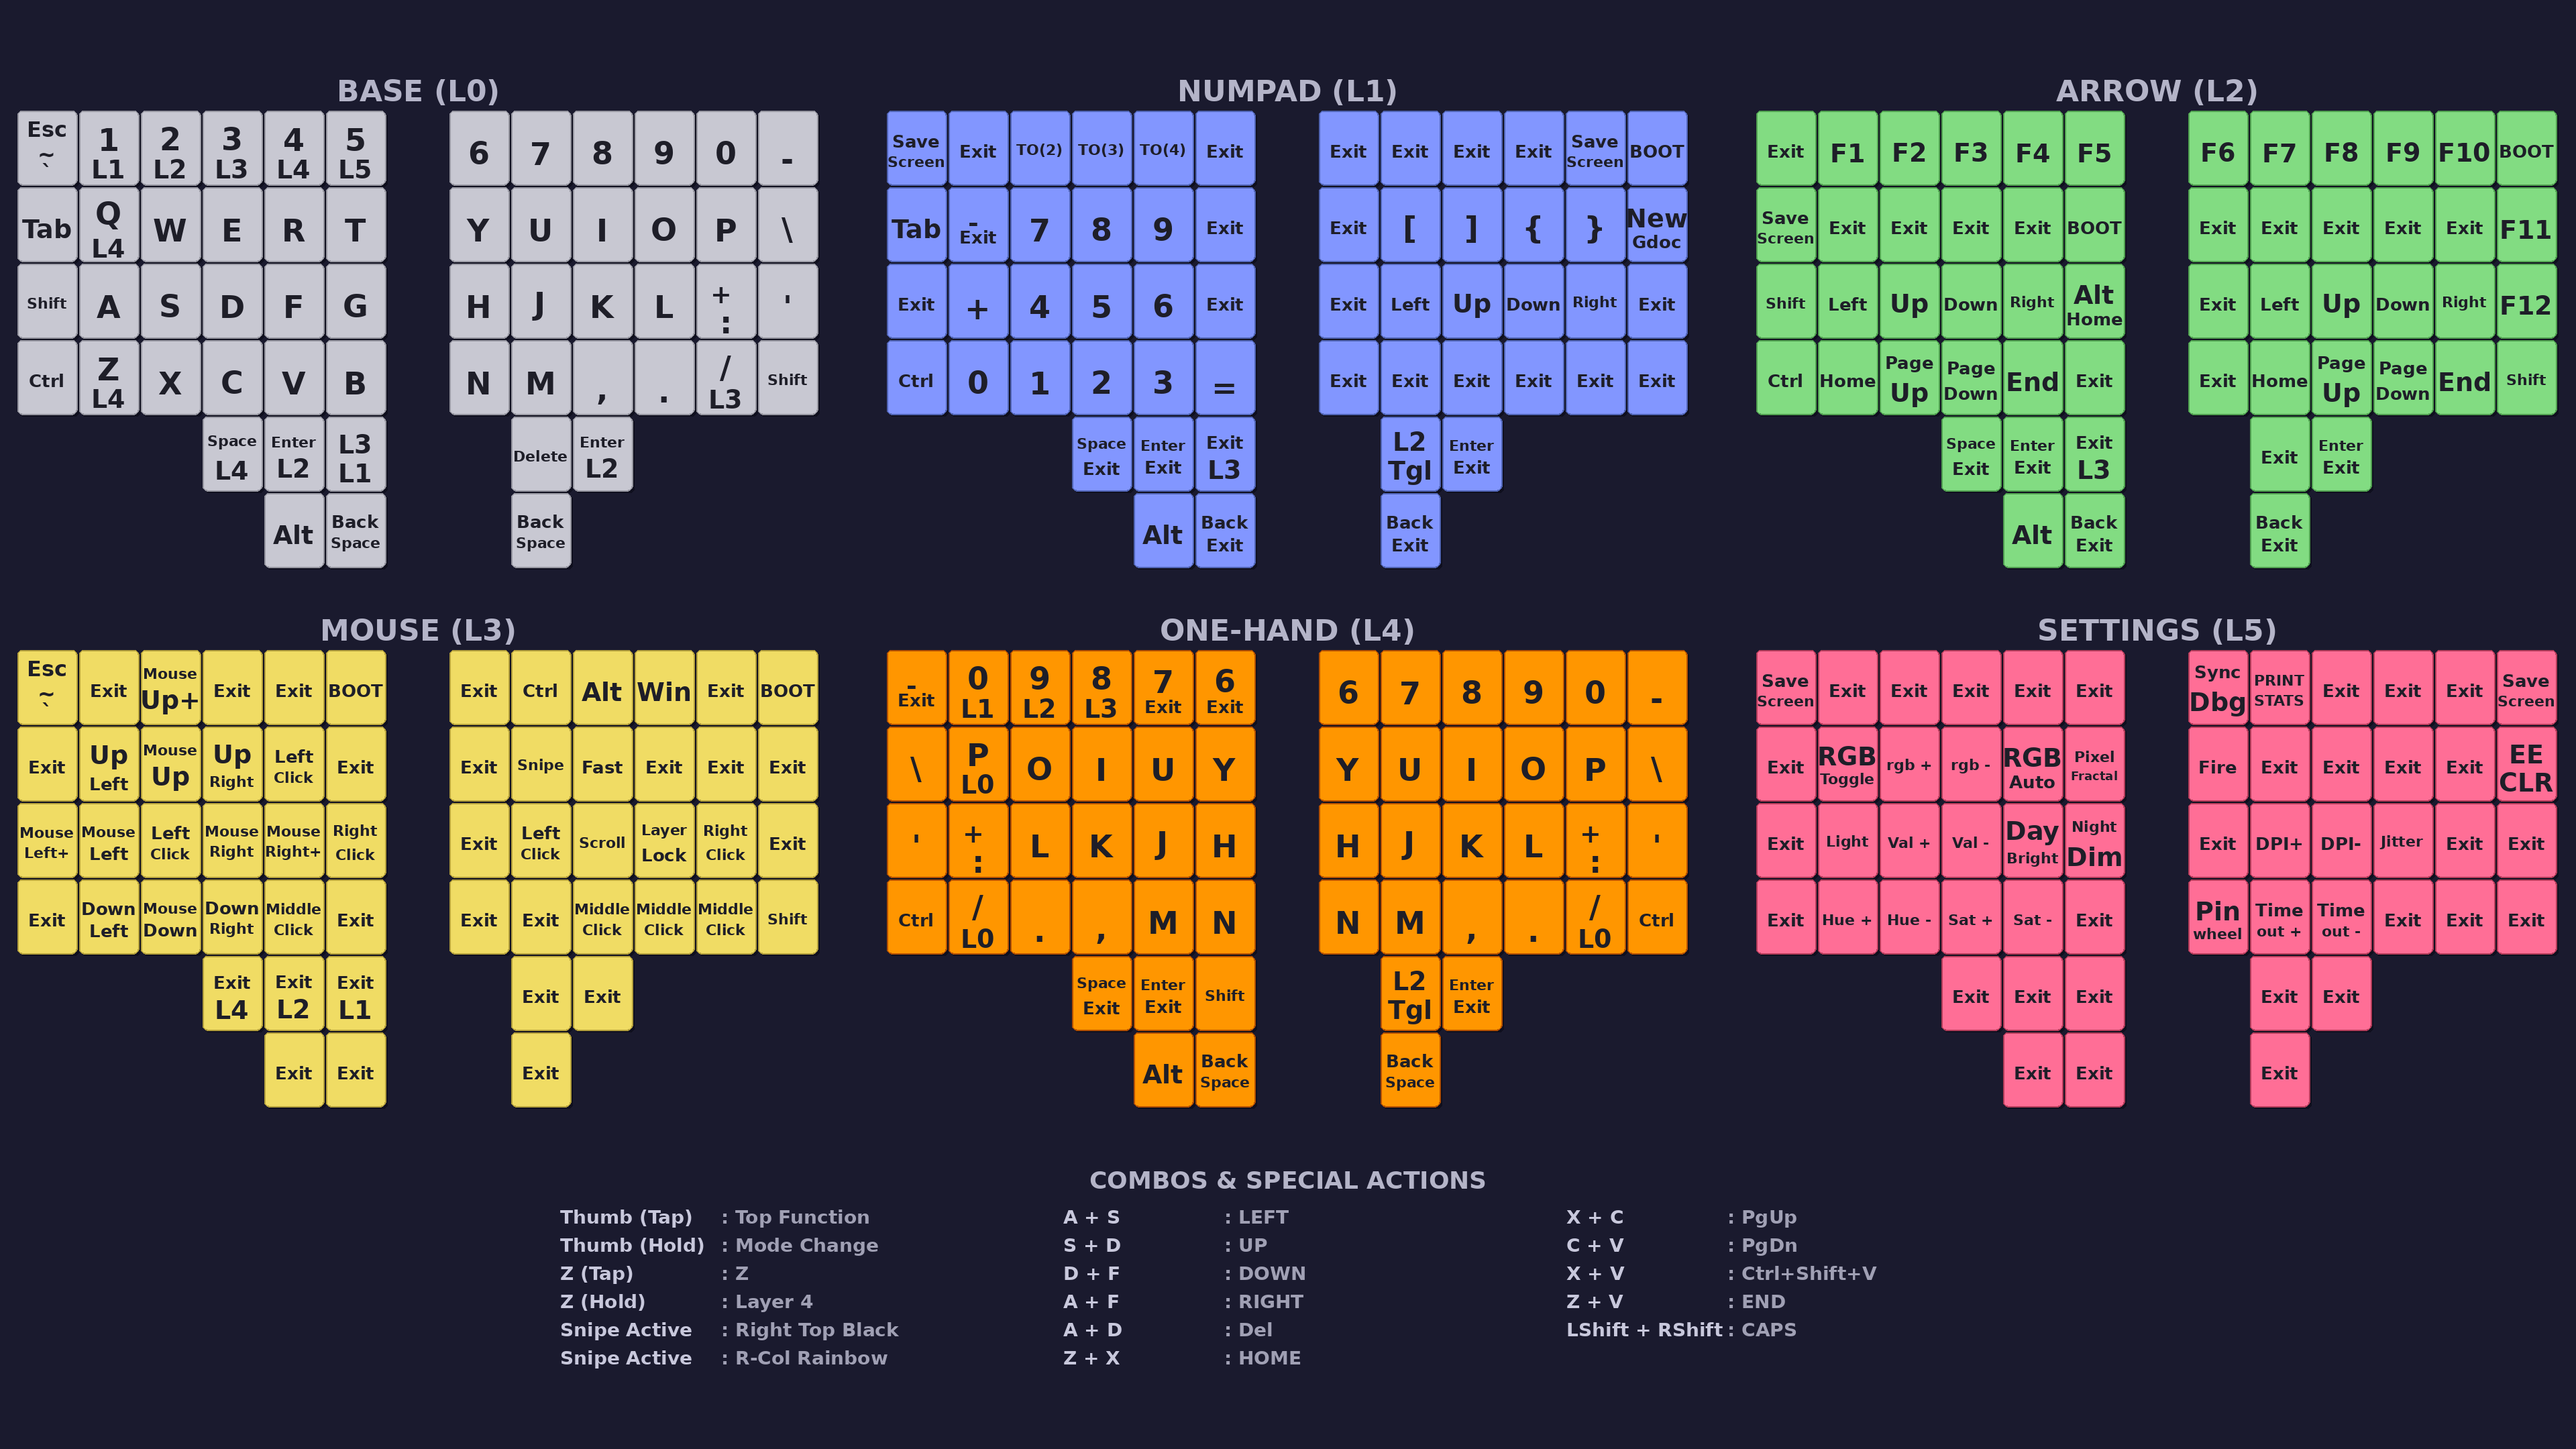
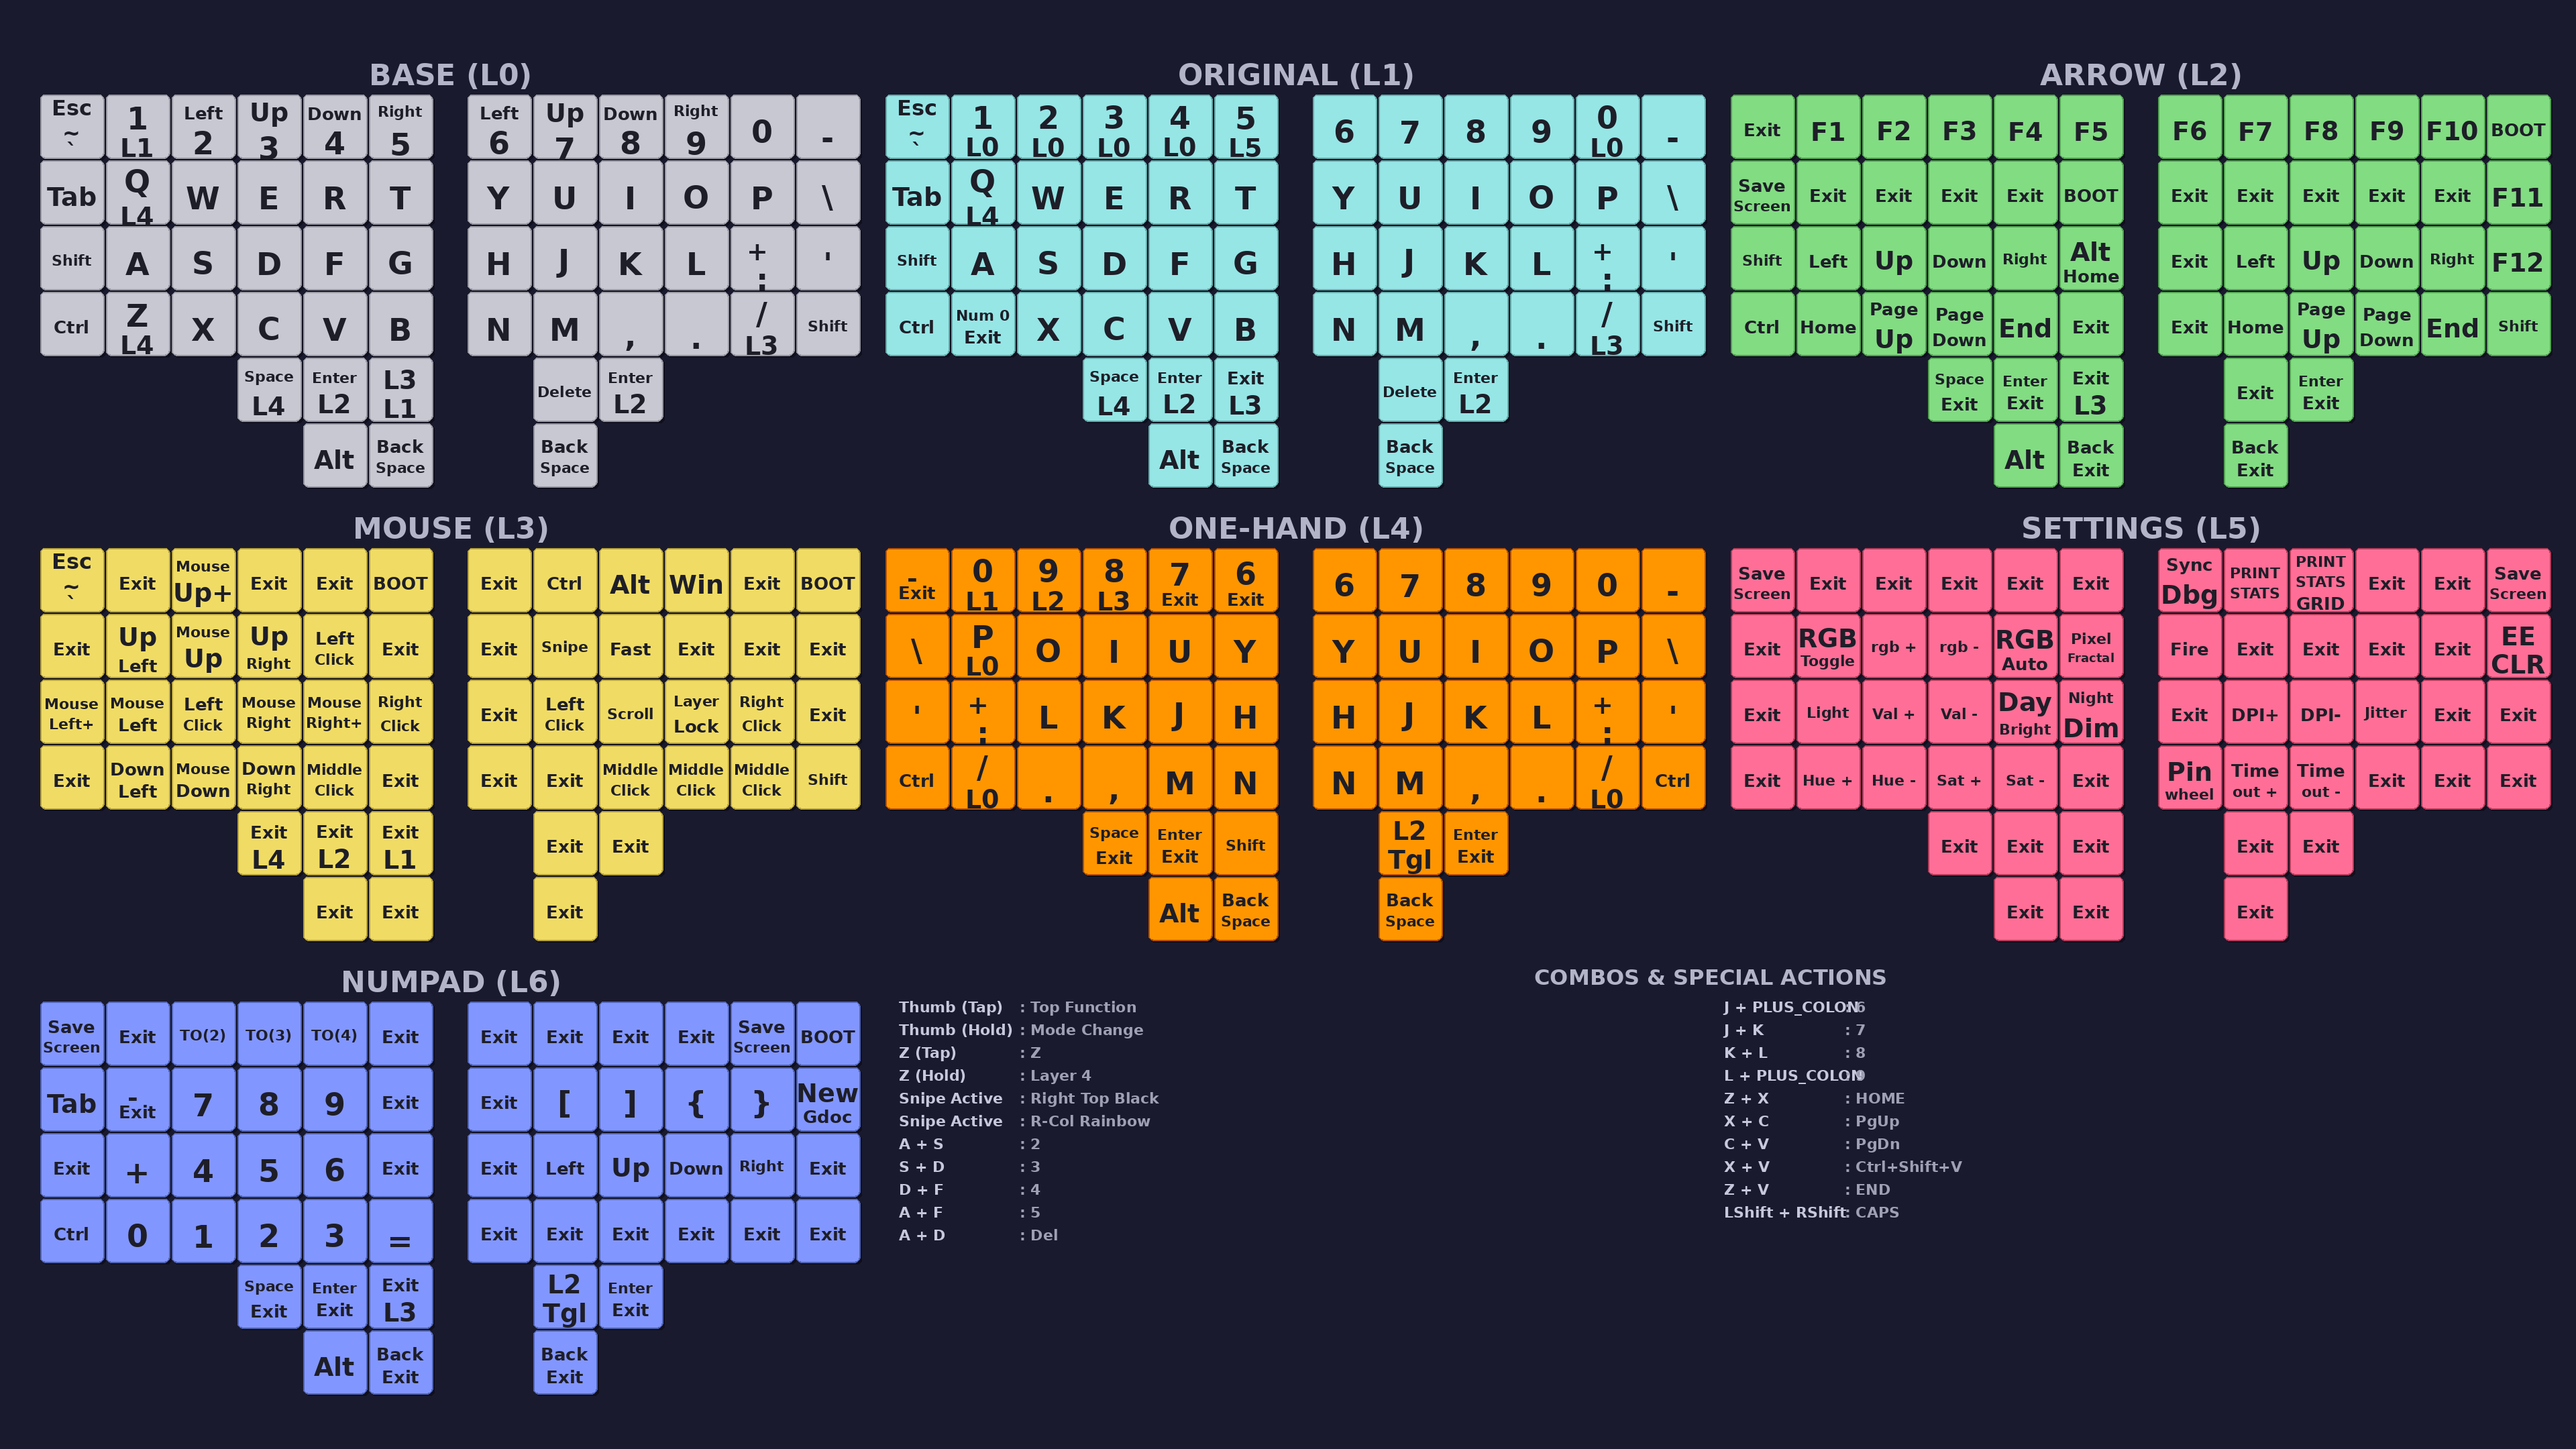
Visualize: Update PDF and wallpaper for Layer 1/6 swap and dual-function keys
- Updated generate_layout_pdf.py and wallpaper.py to include Layer 6 (Numpad) and rename Layer 1 (Original).
- Added labels for new dual-function arrow/number keys (KC_2_LEFT through KC_9_RIGHT).
- Adjusted wallpaper layout to a 3x3 grid to accommodate the additional layer and optimized combo display.
- Regenerated charybdis_layout.pdf and wallpaper.png.

diff --git a/wallpaper.py b/wallpaper.py
@@ -12,30 +12,33 @@ from PIL import Image, ImageDraw, ImageFont
 # Layer colors matching the RGB settings in keymap.c
 LAYER_COLORS = {
     0: (200, 200, 210),  # Light gray (Base)
-    1: (130, 150, 255),  # Blue (Numpad)
+    1: (150, 230, 230),  # Cyan (Original)
     2: (130, 220, 130),  # Green (Arrow)
     3: (240, 220, 100),  # Yellow (Mouse)
     4: (255, 150, 0),  # Orange (One-Hand)
     5: (255, 110, 150),  # Hot Pink (Settings)
+    6: (130, 150, 255),  # Blue (Numpad)
 }
 
 LAYER_NAMES = {
     0: "BASE",
-    1: "NUMPAD",
+    1: "ORIGINAL",
     2: "ARROW",
     3: "MOUSE",
     4: "ONE-HAND",
     5: "SETTINGS",
+    6: "NUMPAD",
 }
 
 # Key border colors (darker versions)
 KEY_BORDER_COLORS = {
     0: (150, 150, 160),
-    1: (80, 100, 180),
+    1: (100, 170, 170),  # Cyan (Original)
     2: (80, 160, 80),
     3: (180, 160, 60),
     4: (180, 80, 0),
     5: (180, 60, 90),
+    6: (80, 100, 180),  # Blue (Numpad)
 }
 
 # Key label simplifications
@@ -444,8 +447,8 @@ def simplify_key(key_code, layer_num=None):
             return "/\nExit"
         return "Z\nTD"
 
-    # Special handling for Layer 0 Long Press
-    if layer_num == 0:
+    # Special handling for Layer 0 and Layer 6 Long Press
+    if layer_num == 0 or layer_num == 6:
         if key_code == "KC_1_TG1":
             return "1\nL1"
         if key_code == "KC_2_TG2":
@@ -456,6 +459,8 @@ def simplify_key(key_code, layer_num=None):
             return "4\nL4"
         if key_code == "KC_5_TG5":
             return "5\nL5"
+        if key_code == "KC_0_TO0":
+            return "0\nL0"
 
     # Special handling for Layer 1
     if layer_num == 1:
@@ -602,6 +607,15 @@ def simplify_key(key_code, layer_num=None):
         "KC_PINWHEEL": "Pin\nwheel",
         "KC_7_TO0": "7\nExit",
         "KC_6_TO0": "6\nExit",
+        "KC_0_TO0": "0\nL0",
+        "KC_2_LEFT": "Left\n2",
+        "KC_3_UP": "Up\n3",
+        "KC_4_DOWN": "Down\n4",
+        "KC_5_RIGHT": "Right\n5",
+        "KC_6_TO6": "Left\n6",
+        "KC_7_UP": "Up\n7",
+        "KC_8_DOWN": "Down\n8",
+        "KC_9_RIGHT": "Right\n9",
         "KC_SPC_TG2": "Space\nL2",
         "KC_SPC_TG4": "Space\nL4",
         "KC_ENT_TG2": "Enter\nL2",
@@ -716,17 +730,17 @@ def parse_info_json(file_path):
 
     # Adjust layout to minimize whitespace and center thumbs
     for key in layout:
-        # Right Main (rows 0-3, x >= 11) -> Shift Left by 4
+        # Right Main (rows 0-3, x >= 11) -> Shift Left by 4.5
         if key["y"] < 4 and key["x"] >= 11:
-            key["x"] -= 4.0
+            key["x"] -= 4.5
 
         # Left Thumbs (y >= 4, x < 9) -> Shift Left by 2 (Center under Left Main)
         elif key["y"] >= 4 and key["x"] < 9:
             key["x"] -= 2.0
 
-        # Right Thumbs (y >= 4, x >= 9) -> Shift Left by 1 (Center under Right Main)
+        # Right Thumbs (y >= 4, x >= 9) -> Shift Left by 1.5 (Center under Right Main)
         elif key["y"] >= 4 and key["x"] >= 9:
-            key["x"] -= 1.0
+            key["x"] -= 1.5
 
     return layout
 
@@ -783,11 +797,11 @@ def draw_layer(
 
 
 def draw_combos(draw, start_x, start_y, width):
-    """Draw the combos section in 3 columns."""
+    """Draw the combos section in 2 columns."""
     current_y = start_y
 
-    title_font = get_font(36, bold=True)
-    text_font = get_font(28)
+    title_font = get_font(32, bold=True)
+    text_font = get_font(22)
 
     # Title
     title = "COMBOS & SPECIAL ACTIONS"
@@ -800,34 +814,32 @@ def draw_combos(draw, start_x, start_y, width):
         font=title_font,
     )
 
-    current_y += 60  # Spacing after title
+    current_y += 50  # Spacing after title
 
-    # Split combos into three columns
+    # Split combos into two columns
     n = len(COMBOS)
-    third = (n + 2) // 3
-    col1_combos = COMBOS[:third]
-    col2_combos = COMBOS[third : 2 * third]
-    col3_combos = COMBOS[2 * third :]
+    half = (n + 1) // 2
+    col1_combos = COMBOS[:half]
+    col2_combos = COMBOS[half:]
 
-    # Center the columns more tightly
-    col_content_width = 750  # Fixed width per column
-    total_combos_width = col_content_width * 3
-    combo_start_x = start_x + (width - total_combos_width) // 2
+    # Calculate column positions
+    col_content_width = width // 2
+    combo_start_x = start_x
 
-    line_height = 42
+    line_height = 34
 
-    max_rows = max(len(col1_combos), len(col2_combos), len(col3_combos))
+    max_rows = max(len(col1_combos), len(col2_combos))
     for i in range(max_rows):
         if i < len(col1_combos):
             keys, action = col1_combos[i]
             draw.text(
-                (combo_start_x + 40, current_y),
+                (combo_start_x + 20, current_y),
                 f"{keys}",
                 fill=(200, 200, 220),
                 font=text_font,
             )
             draw.text(
-                (combo_start_x + 280, current_y),
+                (combo_start_x + 200, current_y),
                 f": {action}",
                 fill=(160, 160, 180),
                 font=text_font,
@@ -836,28 +848,13 @@ def draw_combos(draw, start_x, start_y, width):
         if i < len(col2_combos):
             keys, action = col2_combos[i]
             draw.text(
-                (combo_start_x + col_content_width + 40, current_y),
+                (combo_start_x + col_content_width + 20, current_y),
                 f"{keys}",
                 fill=(200, 200, 220),
                 font=text_font,
             )
             draw.text(
-                (combo_start_x + col_content_width + 280, current_y),
-                f": {action}",
-                fill=(160, 160, 180),
-                font=text_font,
-            )
-
-        if i < len(col3_combos):
-            keys, action = col3_combos[i]
-            draw.text(
-                (combo_start_x + 2 * col_content_width + 40, current_y),
-                f"{keys}",
-                fill=(200, 200, 220),
-                font=text_font,
-            )
-            draw.text(
-                (combo_start_x + 2 * col_content_width + 280, current_y),
+                (combo_start_x + col_content_width + 200, current_y),
                 f": {action}",
                 fill=(160, 160, 180),
                 font=text_font,
@@ -885,16 +882,16 @@ def generate_wallpaper(output_path, keymap_path, info_path):
     img = Image.new("RGB", (WALLPAPER_WIDTH, WALLPAPER_HEIGHT), BACKGROUND_COLOR)
     draw = ImageDraw.Draw(img)
 
-    # Calculate grid layout (2 rows x 3 columns)
+    # Calculate grid layout (3 rows x 3 columns for 7 layers)
     grid_cols = 3
-    grid_rows = 2
-    grid_gap_x = 100  # Horizontal gap between layers
-    grid_gap_y = 60  # Vertical gap between rows
+    grid_rows = 3
+    grid_gap_x = 60  # Horizontal gap between layers
+    grid_gap_y = 40  # Vertical gap between rows
 
-    # Key dimensions - taller than wide to use vertical space
-    key_width = 88
-    key_height = 110  # Taller keys
-    key_gap = 4
+    # Key dimensions - sized to fill screen
+    key_width = 94
+    key_height = 94
+    key_gap = 2
 
     # Calculate actual layer dimensions based on keyboard layout
     max_x = max(k["x"] for k in layout_info)
@@ -902,26 +899,17 @@ def generate_wallpaper(output_path, keymap_path, info_path):
     layer_width = int((max_x + 1) * (key_width + key_gap))
     layer_height = int((max_y + 1) * (key_height + key_gap)) + 60  # +60 for title
 
-    # Calculate Combos section height
-    # Title (36+pad) + Rows * 42
-    n_combos = len(COMBOS)
-    rows_per_col = (n_combos + 2) // 3
-    combos_height = 60 + (rows_per_col * 42)
-
-    # Calculate total content size
+    # Calculate total content size (no combos below - they go beside L6)
     grid_height = grid_rows * layer_height + (grid_rows - 1) * grid_gap_y
-    content_gap = 80  # Gap between grid and combos
-    total_height = grid_height + content_gap + combos_height
-
     total_width = grid_cols * layer_width + (grid_cols - 1) * grid_gap_x
 
     # Center everything on the wallpaper
     start_x = (WALLPAPER_WIDTH - total_width) // 2
-    start_y = (WALLPAPER_HEIGHT - total_height) // 2
+    start_y = (WALLPAPER_HEIGHT - grid_height) // 2
 
     # Draw each layer in grid
     layer_nums = sorted(layers.keys())
-    for idx, layer_num in enumerate(layer_nums[:6]):  # Max 6 layers
+    for idx, layer_num in enumerate(layer_nums[:9]):  # Max 9 layers (3x3 grid)
         row = idx // grid_cols
         col = idx % grid_cols
 
@@ -940,9 +928,13 @@ def generate_wallpaper(output_path, keymap_path, info_path):
             key_height,
         )
 
-    # Draw combos at the bottom
-    combos_y = start_y + grid_height + content_gap
-    draw_combos(draw, start_x, combos_y, total_width)
+    # Draw combos in the empty space next to L6 (row 2, cols 1-2)
+    num_layers = len(layer_nums)
+    if num_layers <= 7:  # We have empty space in row 2
+        combos_x = start_x + 1 * (layer_width + grid_gap_x)
+        combos_y = start_y + 2 * (layer_height + grid_gap_y)
+        combos_width = 2 * layer_width + grid_gap_x
+        draw_combos(draw, combos_x, combos_y, combos_width)
 
     # Save
     img.save(output_path, "PNG", quality=95)

diff --git a/generate_layout_pdf.py b/generate_layout_pdf.py
@@ -17,20 +17,22 @@ from reportlab.pdfbase.ttfonts import TTFont
 # Layer colors matching the RGB settings in keymap.c
 LAYER_COLORS = {
     0: (0.9, 0.9, 0.9),  # White/Light gray (Base)
-    1: (0.7, 0.7, 1.0),  # Blue (Numpad)
+    1: (0.6, 0.9, 0.9),  # Cyan (Original)
     2: (0.7, 1.0, 0.7),  # Green (Arrow)
     3: (1.0, 1.0, 0.7),  # Yellow (Mouse)
     4: (1.0, 0.5, 0.0),  # Orange (One-Hand)
     5: (1.0, 0.43, 0.59),  # Hot Pink (Settings)
+    6: (0.7, 0.7, 1.0),  # Blue (Numpad)
 }
 
 LAYER_NAMES = {
     0: "BASE",
-    1: "NUMPAD",
+    1: "ORIGINAL",
     2: "ARROW",
     3: "MOUSE",
     4: "ONE-HAND",
     5: "SETTINGS",
+    6: "NUMPAD",
 }
 
 # Key label simplifications
@@ -383,8 +385,8 @@ def simplify_key(key_code, layer_num=None):
             return "/\nExit"
         return "Z\nTD"
 
-    # Special handling for Layer 0 Long Press
-    if layer_num == 0:
+    # Special handling for Layer 0 and Layer 6 Long Press
+    if layer_num == 0 or layer_num == 6:
         if key_code == "KC_1_TG1":
             return "1\nL1"
         if key_code == "KC_2_TG2":
@@ -395,6 +397,8 @@ def simplify_key(key_code, layer_num=None):
             return "4\nL4"
         if key_code == "KC_5_TG5":
             return "5\nL5"
+        if key_code == "KC_0_TO0":
+            return "0\nL0"
 
     # Special handling for Layer 1
     if layer_num == 1:
@@ -541,6 +545,15 @@ def simplify_key(key_code, layer_num=None):
         "KC_PINWHEEL": "Pin\nwheel",
         "KC_7_TO0": "7\nExit",
         "KC_6_TO0": "6\nExit",
+        "KC_0_TO0": "0\nL0",
+        "KC_2_LEFT": "Left\n2",
+        "KC_3_UP": "Up\n3",
+        "KC_4_DOWN": "Down\n4",
+        "KC_5_RIGHT": "Right\n5",
+        "KC_6_TO6": "Left\n6",
+        "KC_7_UP": "Up\n7",
+        "KC_8_DOWN": "Down\n8",
+        "KC_9_RIGHT": "Right\n9",
         "KC_SPC_TG2": "Space\nL2",
         "KC_SPC_TG4": "Space\nL4",
         "KC_ENT_TG2": "Enter\nL2",
